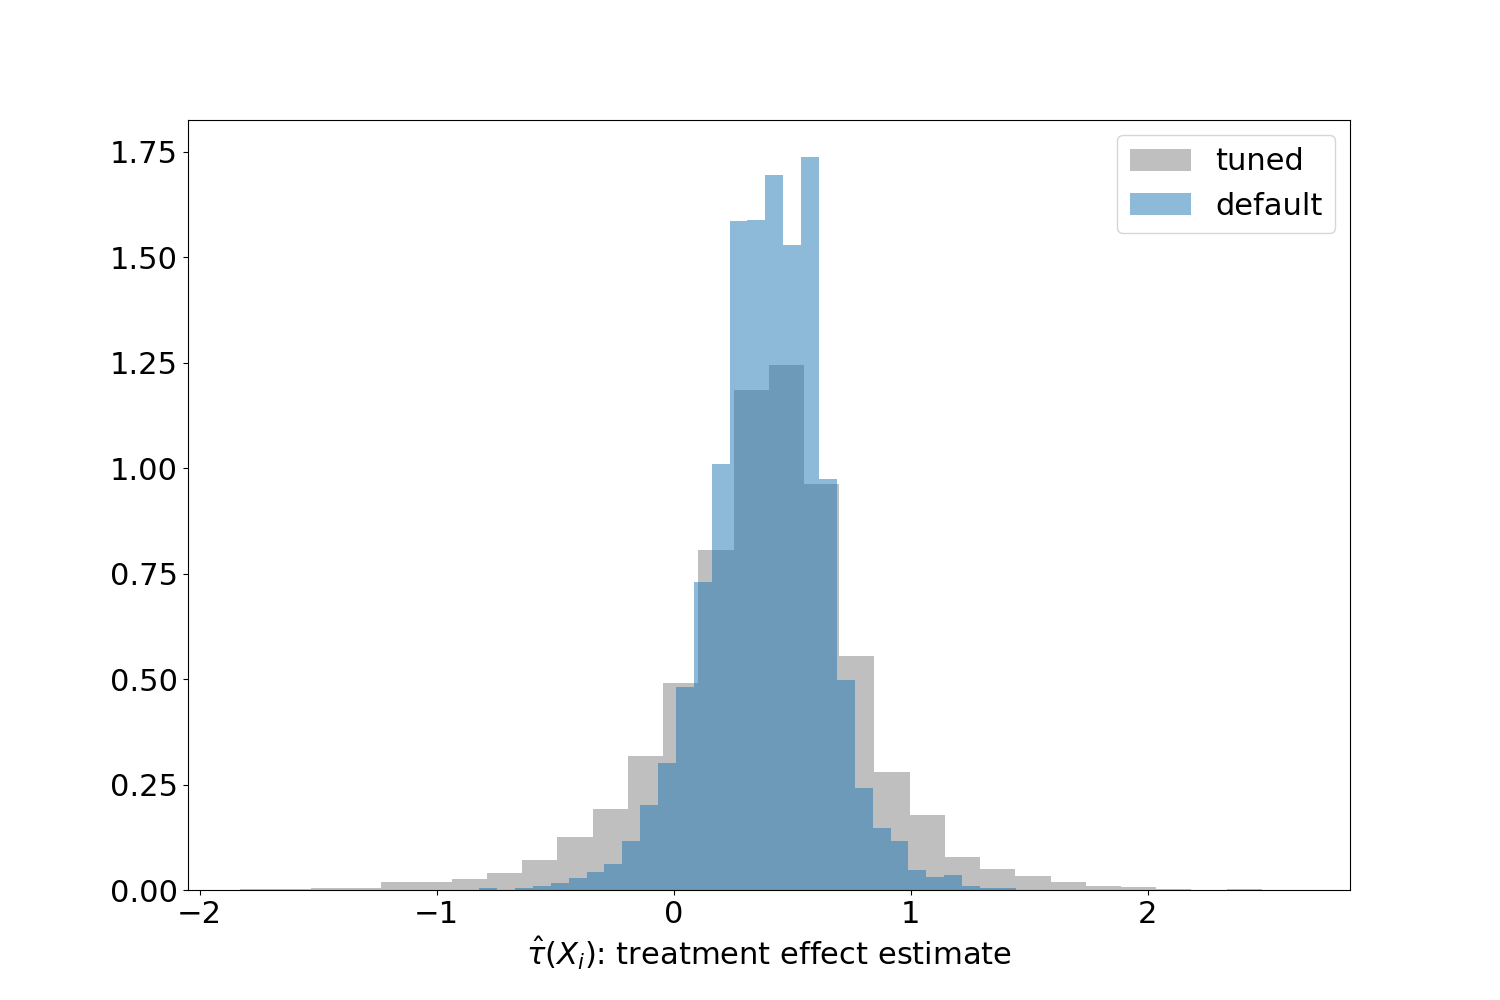
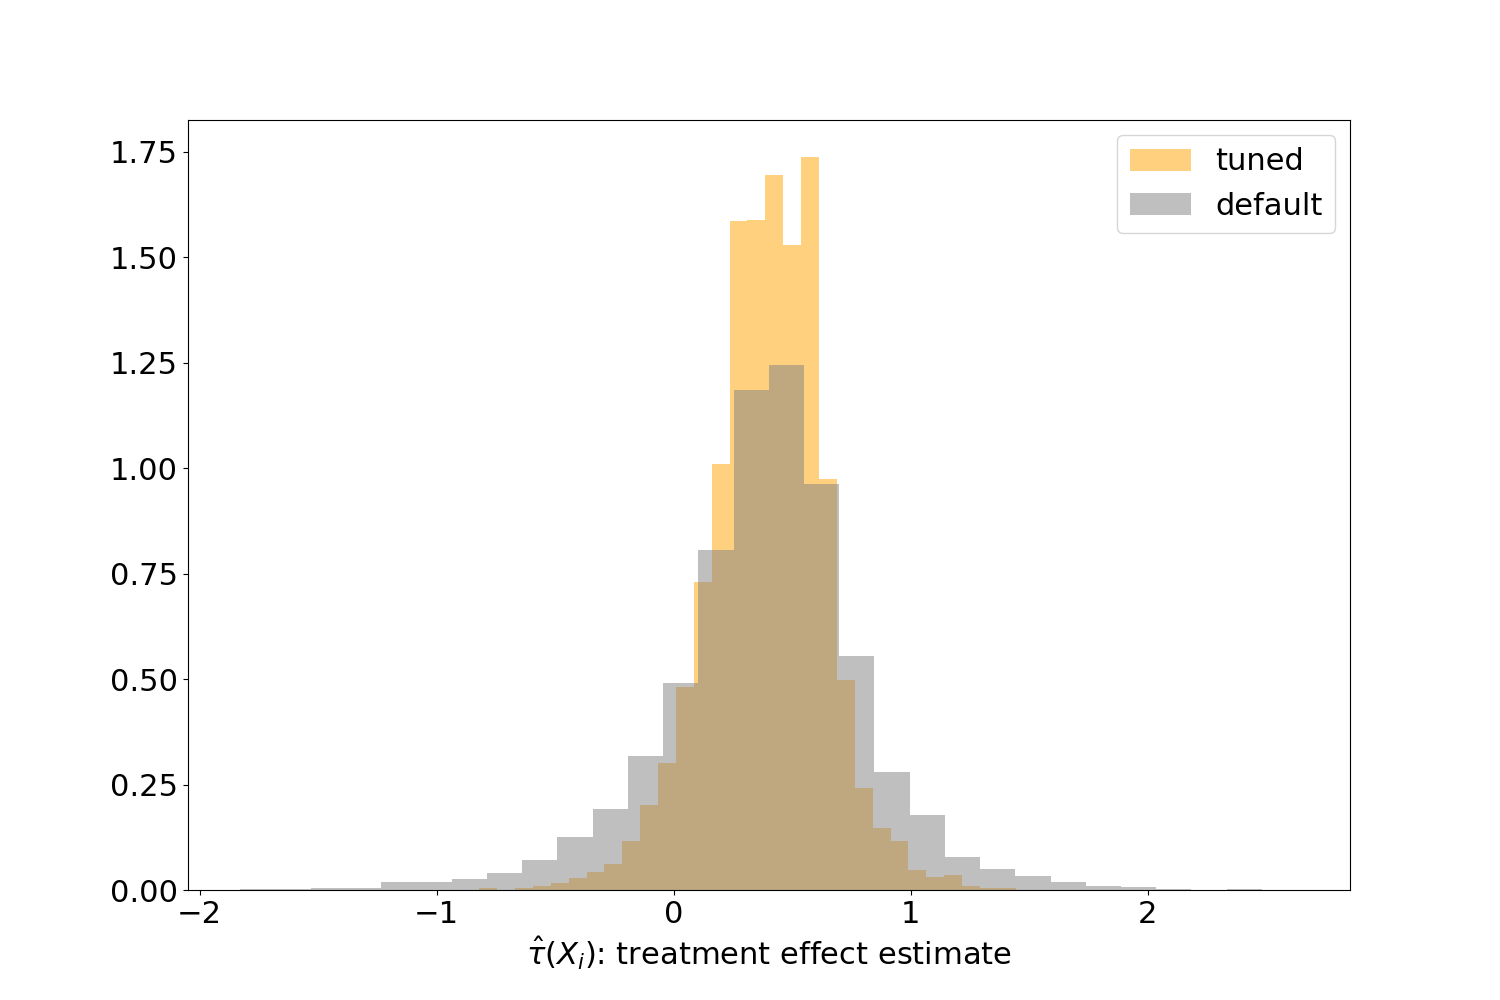
Fix cate histograms.

Changed region(s): [[0.368, 0.155, 0.644, 0.899], [0.736, 0.124, 0.7973, 0.217]]

diff --git a/src/script.py b/src/script.py
@@ -15,6 +15,7 @@ from sklearn.linear_model import LogisticRegression
 _COACHING_COLOR = "green"
 _NO_COACHING_COLOR = "red"
 _NEUTRAL_COLOR = "grey"
+_TUNED_COLOR = "orange"
 
 _SEED = 42
 
@@ -69,7 +70,7 @@ def step_2(df, outcome_column, treatment_column):
     figsize = (_FIG_SIZE_HIST[0] * 2, _FIG_SIZE_HIST[1])
     fig, axs = plt.subplots(nrows=1, ncols=2, figsize=figsize)
     axs[0].hist(df[outcome_column], bins=30, color=_NEUTRAL_COLOR)
-    axs[0].set_xlabel("outcome")
+    axs[0].set_xlabel("$Y_i$: outcome")
 
     axs[1].hist(
         df[df[treatment_column] == 1][outcome_column],
@@ -87,10 +88,9 @@ def step_2(df, outcome_column, treatment_column):
         label="no coaching",
         color=_NO_COACHING_COLOR,
     )
-    axs[1].set_xlabel("outcome")
+    axs[1].set_xlabel("$Y_i$: outcome")
     axs[1].legend()
 
-    fig.suptitle("Histograms of outcomes")
     fig.savefig("hist_outcomes.png")
 
     print(f"fraction of treatment: {df[treatment_column].mean()}")
@@ -278,15 +278,20 @@ def step_4(df, feature_columns, outcome_column, treatment_column):
 
     fig, ax = plt.subplots(figsize=_FIG_SIZE_HIST)
     ax.hist(
-        cate_estimates_default_rlearner,
+        cate_estimates_tuned_rlearner,
         bins=30,
-        color=_NEUTRAL_COLOR,
+        color=_TUNED_COLOR,
         label="tuned",
         density=True,
         alpha=0.5,
     )
     ax.hist(
-        cate_estimates_tuned_rlearner, bins=30, label="default", density=True, alpha=0.5
+        cate_estimates_default_rlearner,
+        bins=30,
+        label="default",
+        density=True,
+        alpha=0.5,
+        color=_NEUTRAL_COLOR,
     )
     ax.set_xlabel("$\\hat{\\tau}(X_i)$: treatment effect estimate")
     ax.legend()
